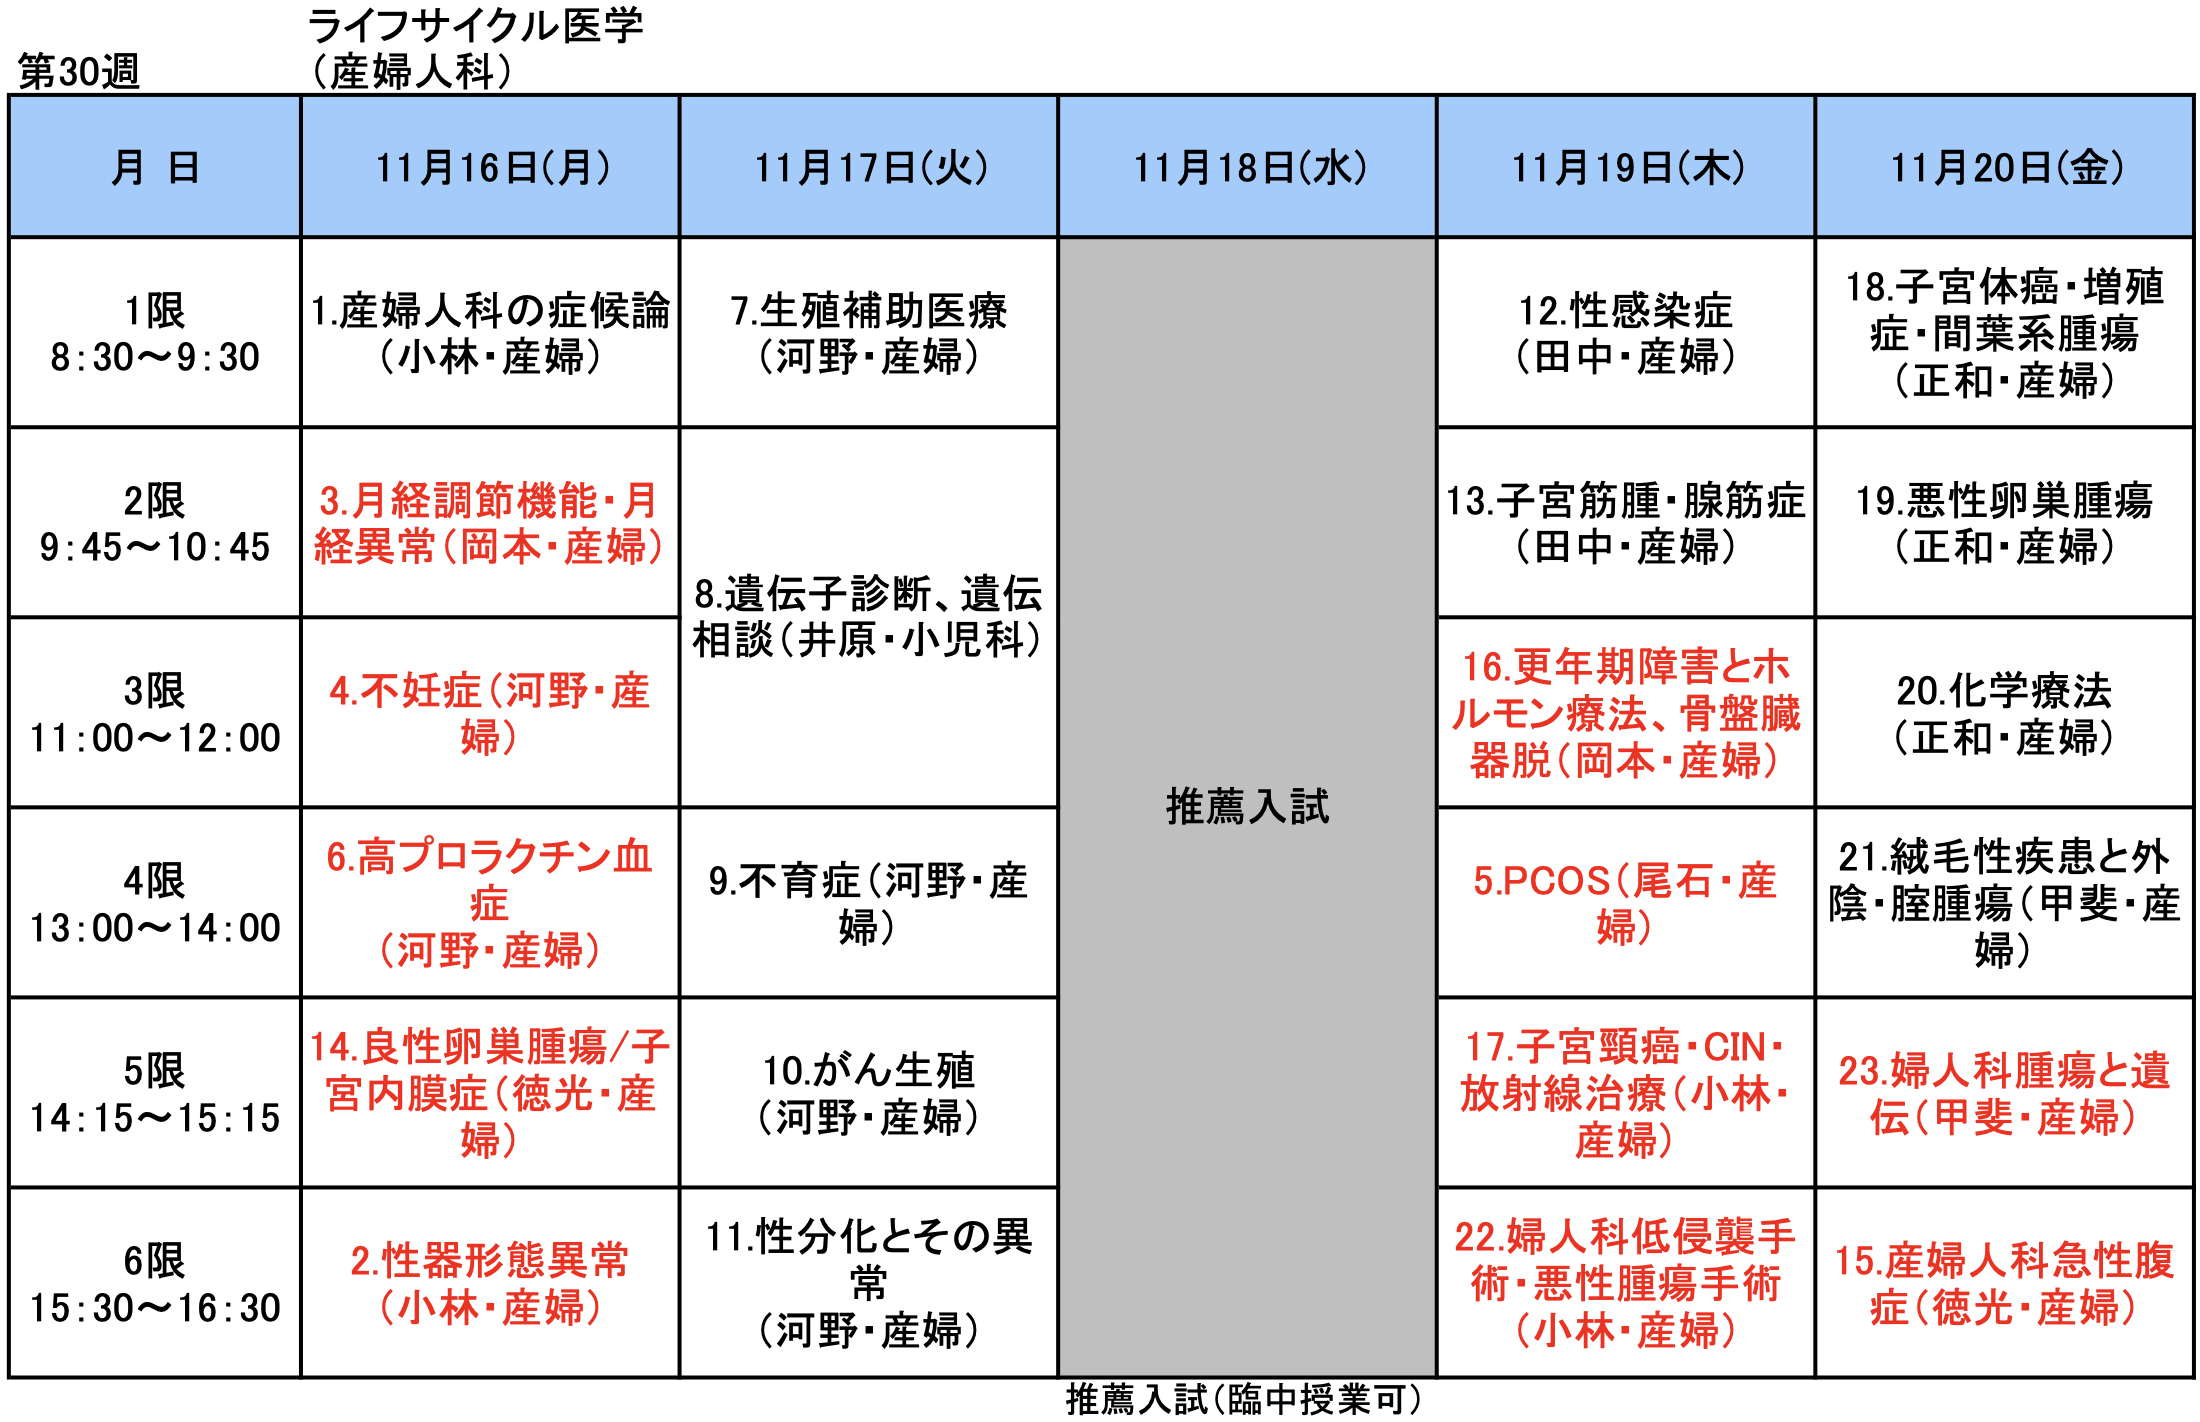
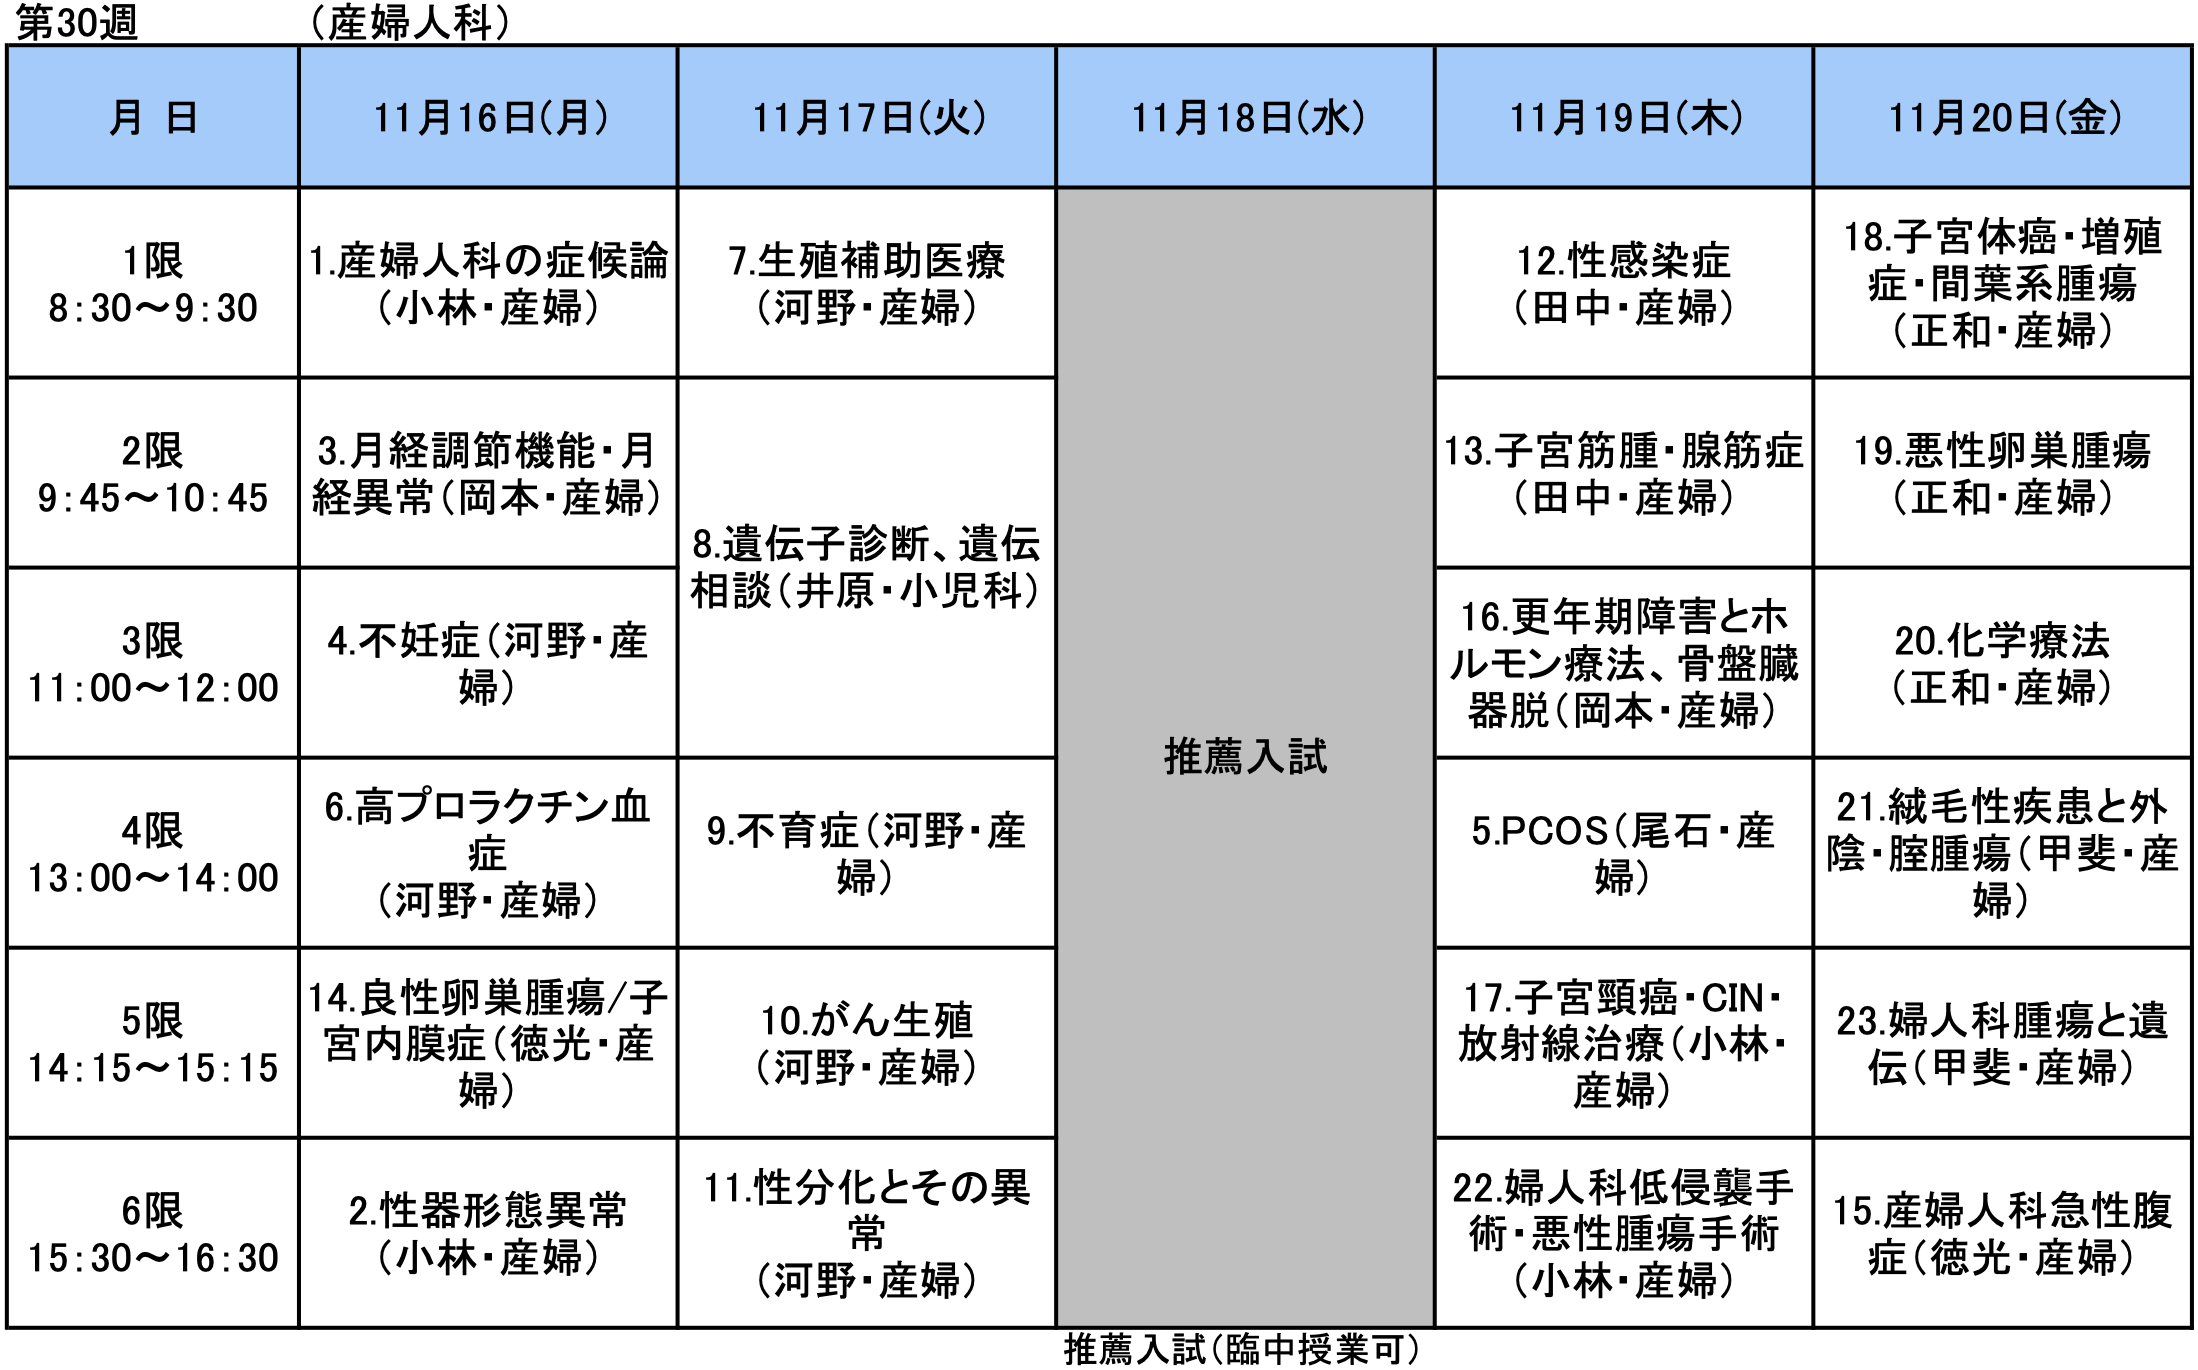
時間割変更 (確定)

diff --git a/index.html b/index.html
@@ -30,7 +30,7 @@
         </h1>
     </header>
     <main class="page-content">
-    <h3 class="top-object">今週の時間割（10月29日更新）</h3>
+    <h3 class="top-object">今週の時間割（11月4日更新）</h3>
     <div id="nav">
         <button id="prev">&lt;前の週</button>
         <button id="next">次の週&gt;</button>
@@ -138,7 +138,7 @@
     </div>
     </main>
     <script>
-        const IMG_VERSION = "2026-10-29";
+        const IMG_VERSION = "2026-11-04";
         const today = new Date();
         let offset = 0;
 
